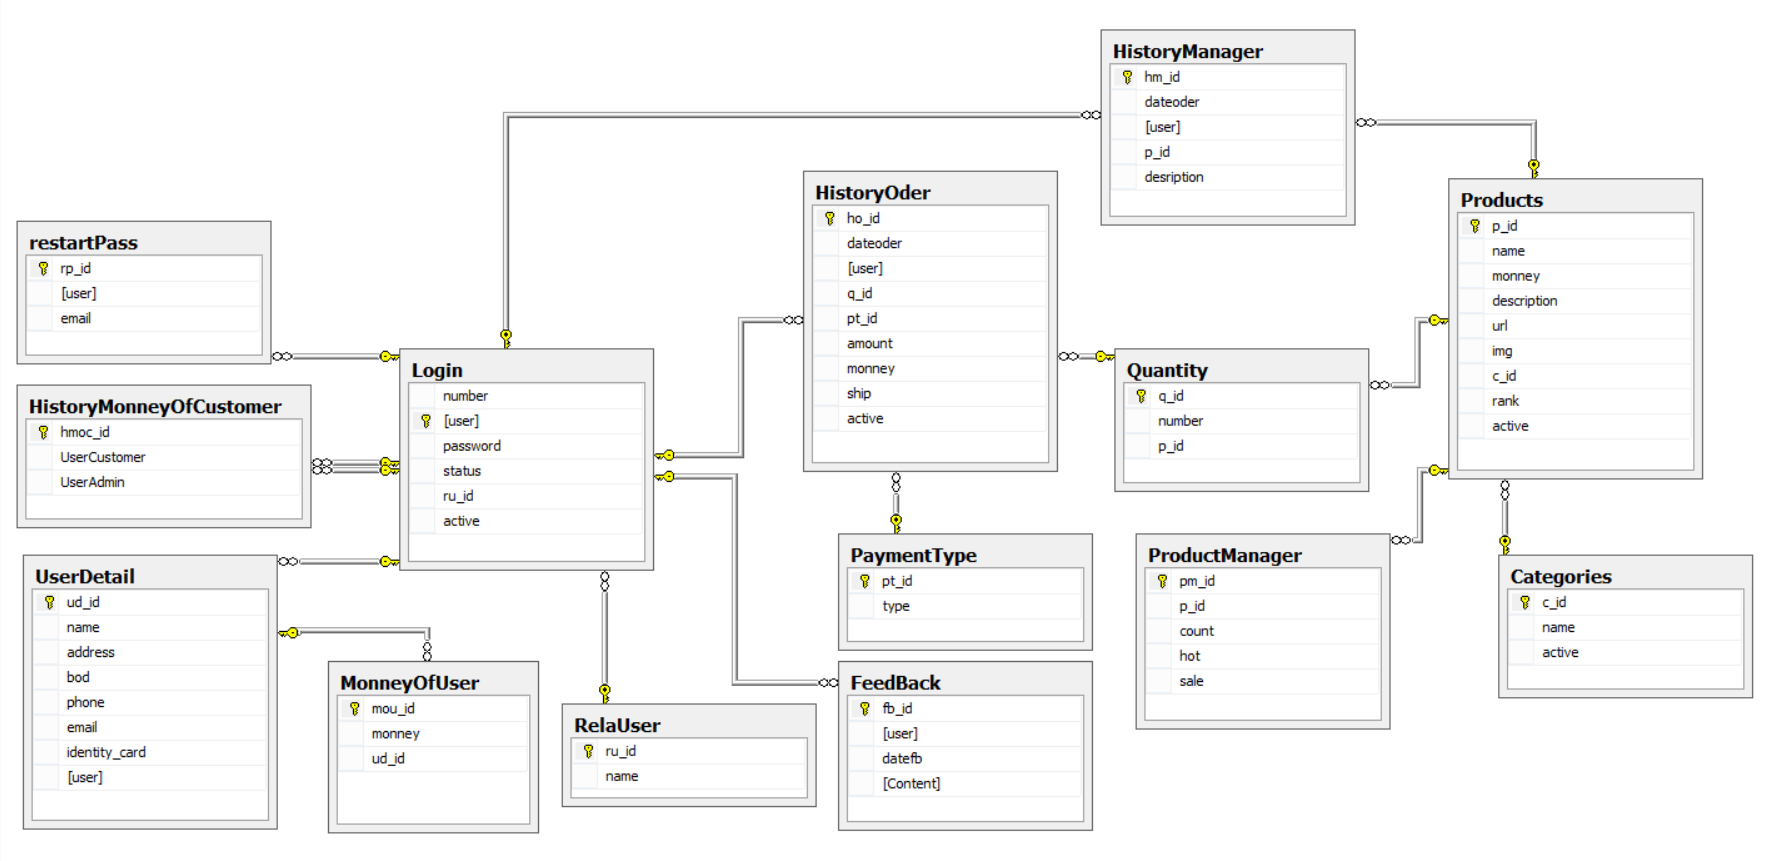
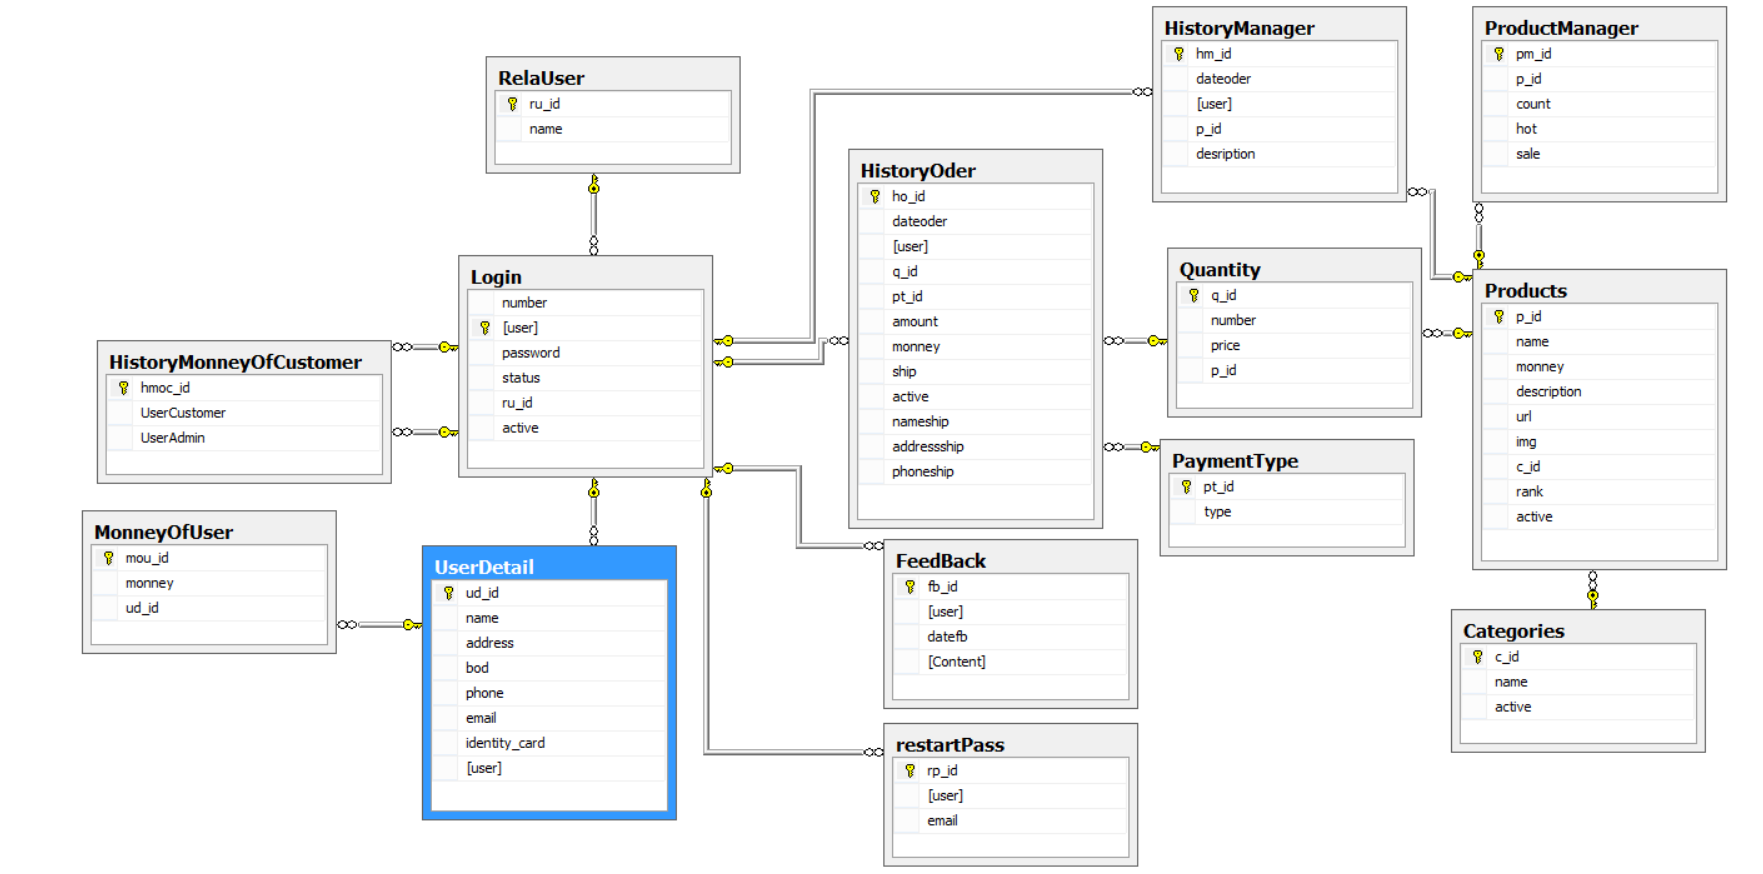
Commit vesion 11

diff --git a/src/java/controller/CheckOutActionSupport.java b/src/java/controller/CheckOutActionSupport.java
@@ -7,8 +7,12 @@ package controller;
 
 import com.opensymphony.xwork2.ActionContext;
 import com.opensymphony.xwork2.ActionSupport;
+import entities.UserDetail;
+import java.util.ArrayList;
+import java.util.List;
 import java.util.Map;
 import javax.servlet.http.HttpServletRequest;
+import model.UserDetailModel;
 import org.apache.struts2.ServletActionContext;
 import org.apache.struts2.interceptor.SessionAware;
 
@@ -19,24 +23,46 @@ import org.apache.struts2.interceptor.SessionAware;
 public class CheckOutActionSupport extends ActionSupport implements SessionAware {
 
     private Map<String, Object> sessionMap;
+    private static final String RLR = "rlr";
+    private UserDetail ud;
+
+    public UserDetail getUd() {
+        return ud;
+    }
+
+    public void setUd(UserDetail ud) {
+        this.ud = ud;
+    }
     
+    
+
     public CheckOutActionSupport() {
     }
-    
+
     @Override
     public String execute() throws Exception {
+
+        HttpServletRequest request = (HttpServletRequest) ActionContext.getContext().get(ServletActionContext.HTTP_REQUEST);
+        if (request.getParameter("active").equals(RLR)) {
+            if(sessionMap.containsKey("login")){
+                UserDetailModel udm = new UserDetailModel();
+                ud = udm.getProfile(sessionMap.get("login").toString());
+            }
+            return RLR;
+        }
+        if(request.getParameter("active").equals("cancelorders")){
+            sessionMap.remove("car");
+            return NONE;
+        }
         
-         HttpServletRequest request = (HttpServletRequest) ActionContext.getContext().get(ServletActionContext.HTTP_REQUEST);
-         if(request.getParameter("active").equals("rlr")){
-                return "rlr";
-         }
         
+
         return SUCCESS;
     }
-    
+
     @Override
     public void setSession(Map<String, Object> sessionMap) {
         this.sessionMap = sessionMap;
     }
-    
+
 }

diff --git a/src/java/model/HistoryOderModel.java b/src/java/model/HistoryOderModel.java
@@ -5,10 +5,52 @@
  */
 package model;
 
+import entities.HistoryOder;
+import java.sql.Connection;
+import java.sql.PreparedStatement;
+import java.text.DateFormat;
+import java.text.SimpleDateFormat;
+import java.util.Date;
+
 /**
  *
  * @author hainam1421
  */
-public class HistoryOderModel {
-    
+public class HistoryOderModel extends DataAccessHelper {
+
+    Connection con;
+
+    private static final String INSERT_ODER = "insert into HistoryOder values (?,?,?,?,?,?,?,?,?,?,?)";
+
+    public boolean addNewOder(HistoryOder ho) {
+        boolean check = false;
+        try {
+            con = getConnection();
+            if (con != null) {
+                DateFormat dateFormat = new SimpleDateFormat("dd/MM/yyyy HH:mm:ss");
+                Date date = new Date();
+                
+                PreparedStatement ps = con.prepareStatement(INSERT_ODER);
+                ps.setString(1, dateFormat.format(date));
+                ps.setString(2, ho.getUser());
+                ps.setInt(3, ho.getQ_id());
+                ps.setInt(4, ho.getPt_id());
+                ps.setInt(5, ho.getAmount());
+                ps.setFloat(6, ho.getMonney());
+                ps.setFloat(7, ho.getShip());
+                ps.setBoolean(8, false);
+                ps.setString(9, ho.getNameship());
+                ps.setString(10, ho.getAddressship());
+                ps.setString(11, ho.getPhoneship());
+                int rs = ps.executeUpdate();
+                if (rs > 0) {
+                    check = true;
+                }
+            }
+            getClose();
+        } catch (Exception ex) {
+            ex.printStackTrace();
+        }
+        return check;
+    }
 }

diff --git a/src/java/entities/HistoryOder.java b/src/java/entities/HistoryOder.java
@@ -26,6 +26,22 @@ public class HistoryOder {
     String phoneship;
     boolean active;
 
+    public HistoryOder(String dateoder, String user, int q_id, int pt_id, int amount, float monney, float ship, String nameship, String addressship, String phoneship, boolean active) {
+        this.dateoder = dateoder;
+        this.user = user;
+        this.q_id = q_id;
+        this.pt_id = pt_id;
+        this.amount = amount;
+        this.monney = monney;
+        this.ship = ship;
+        this.nameship = nameship;
+        this.addressship = addressship;
+        this.phoneship = phoneship;
+        this.active = active;
+    }
+    
+    
+
     public int getHo_id() {
         return ho_id;
     }

diff --git a/src/java/model/UserDetailModel.java b/src/java/model/UserDetailModel.java
@@ -19,7 +19,7 @@ public class UserDetailModel extends DataAccessHelper{
     private static final String GET_PROFILE =  "select * from UserDetail where [user]=?";
     private static final String REGISTER = "insert into UserDetail values (?,?,?,?,?,?,?)";
     
-    protected UserDetail getProfile(String user)
+    public UserDetail getProfile(String user)
     {
         UserDetail item = new UserDetail();
          MonneyOfUserModel moum = new MonneyOfUserModel();
